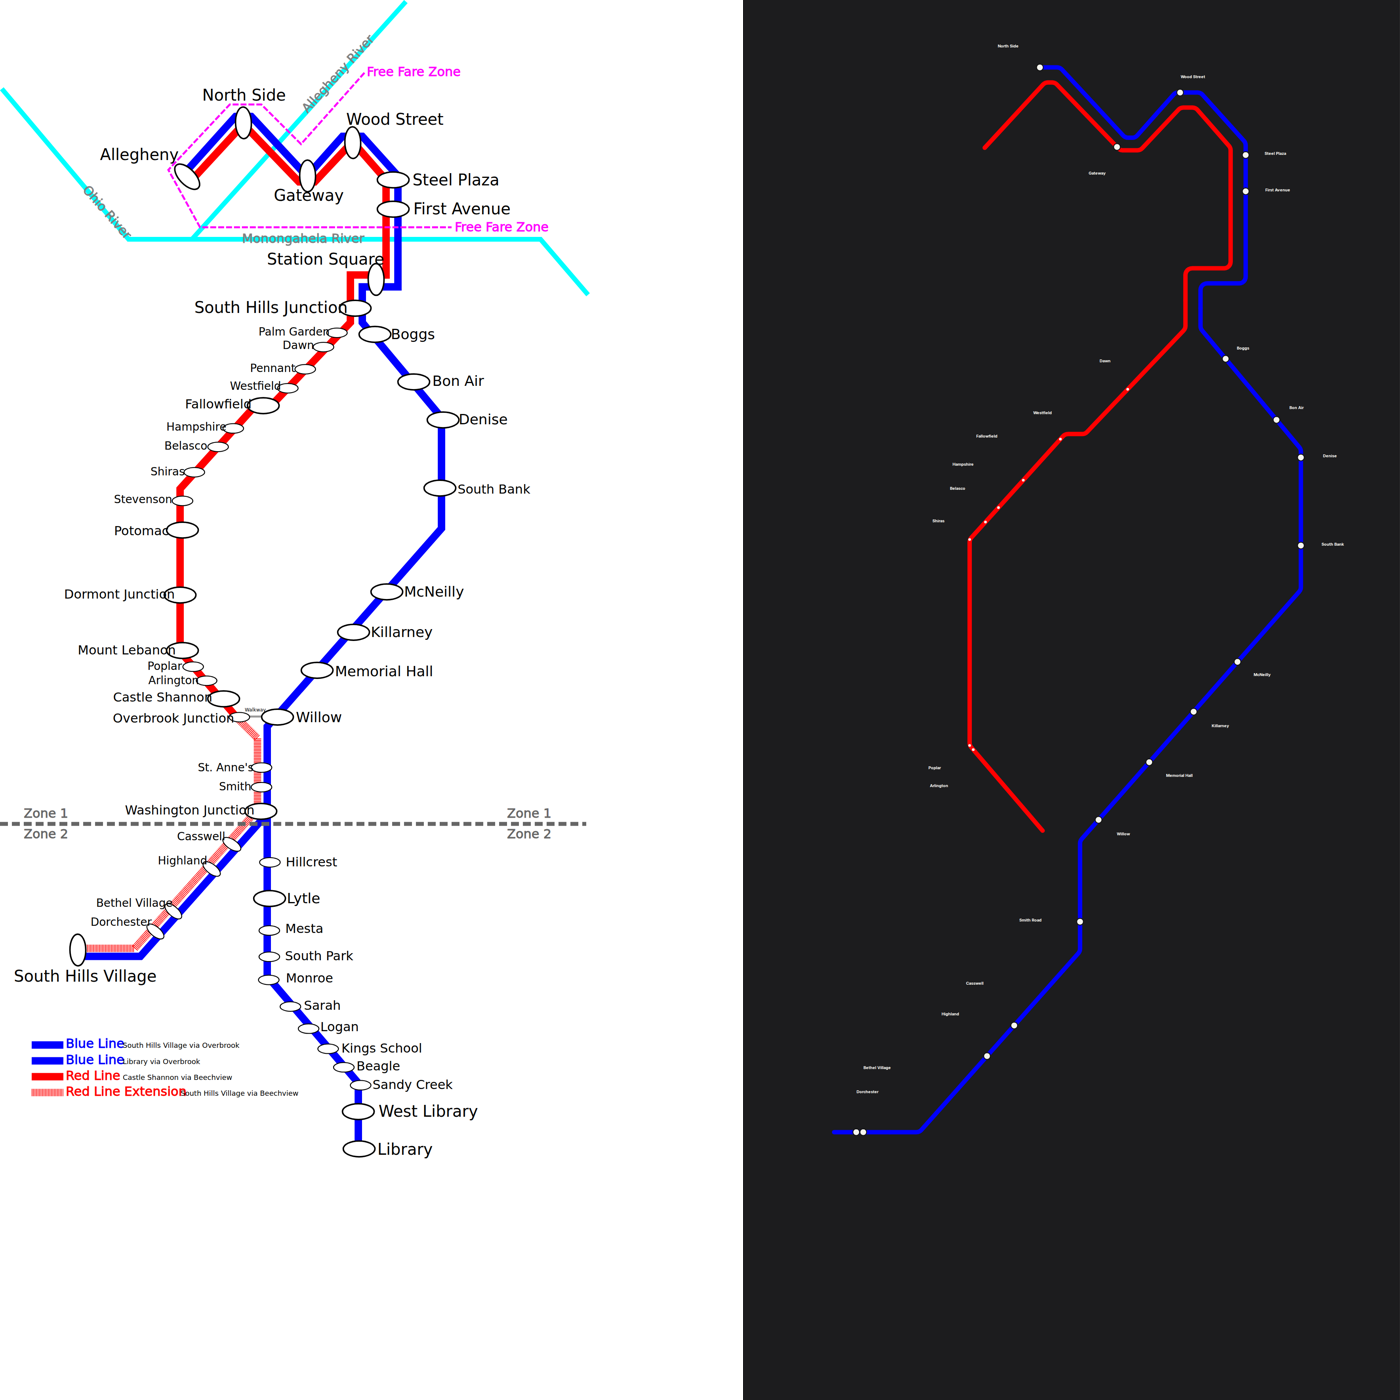
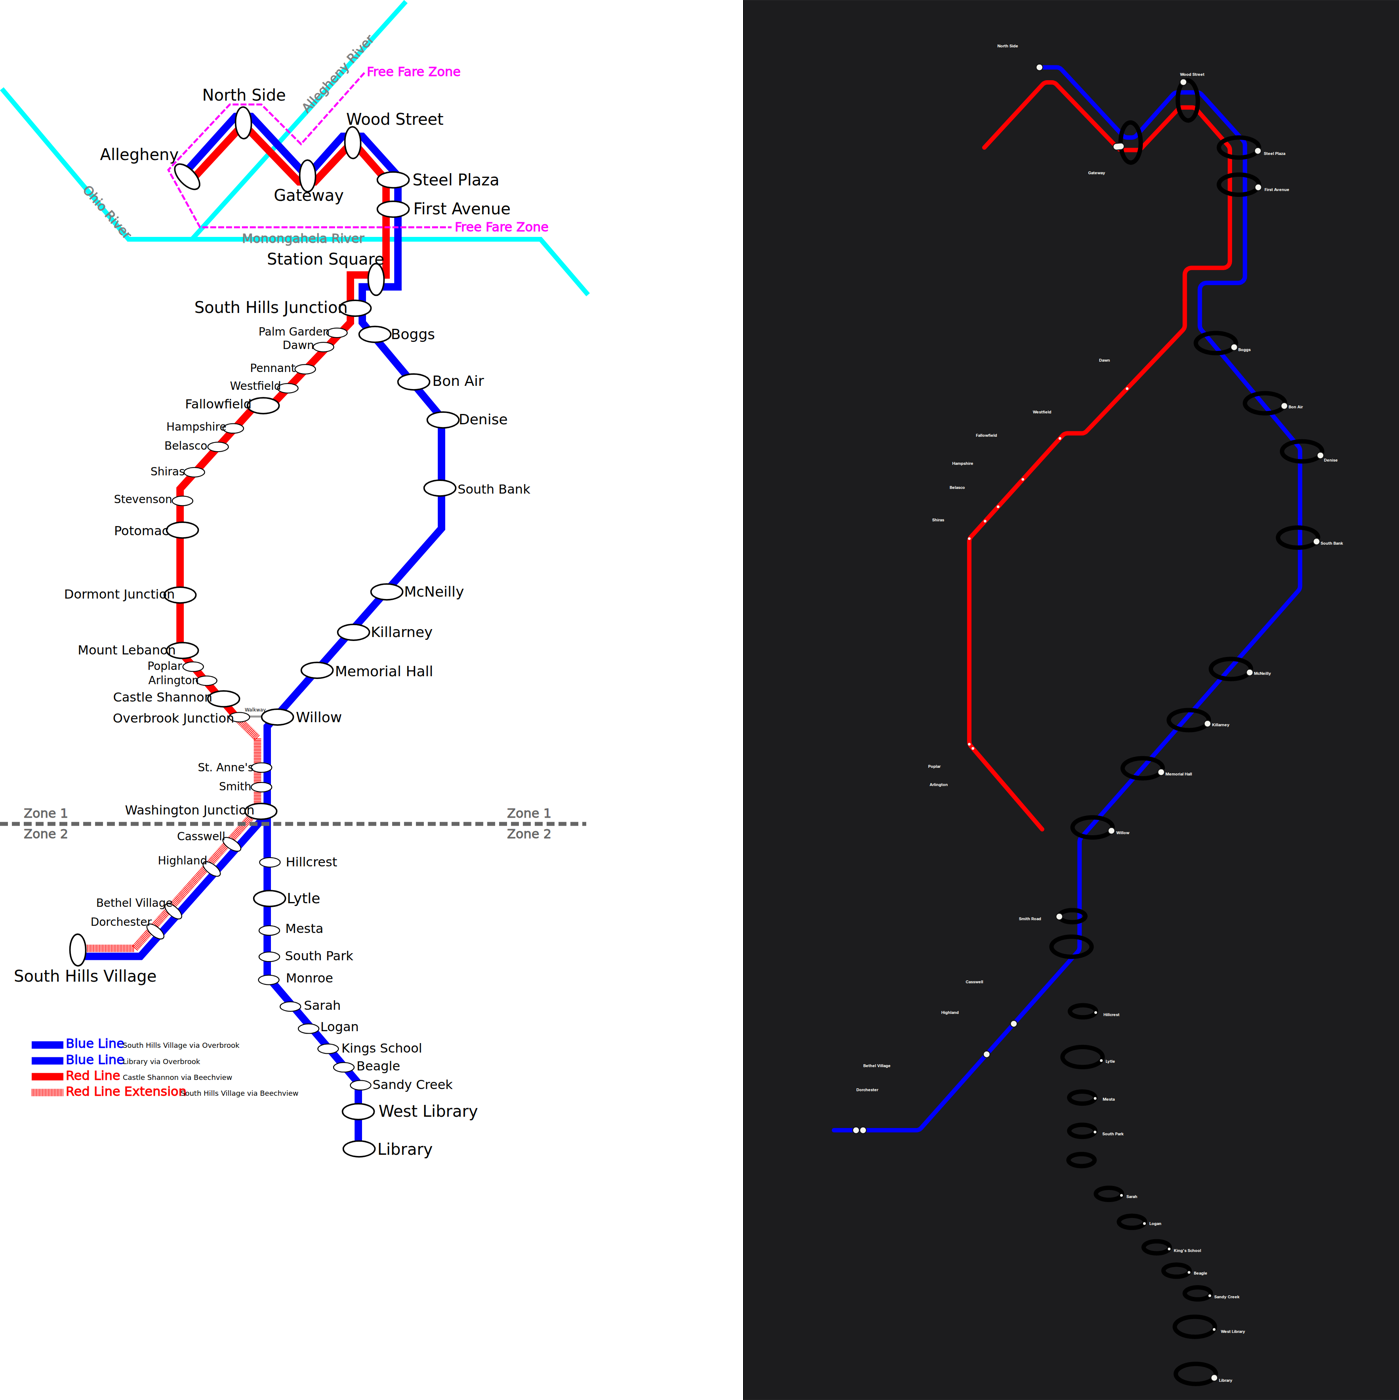
Fallback colour pass ignores outline-only colours; all official fixtures registered in the web app
Claude-Session: https://claude.ai/code/session_01MBsjaw49DwxCbAxCaJEcQU

diff --git a/packages/core/src/svgimport.ts b/packages/core/src/svgimport.ts
@@ -397,6 +397,10 @@ export function layoutFromExtract(ex0: SvgExtract, net0: MetroNetwork, params: D
   const colourStats = new Map<string, { len: number; maxW: number; n: number }>();
   for (const [c, list] of ex.strokes) { let len = 0, maxW = 0; for (const p of list) { len += pathLength(p.pts); maxW = Math.max(maxW, p.width); } colourStats.set(c, { len, maxW, n: list.length }); }
   const candidates = [...colourStats.entries()].filter(([c, s]) => s.len > 50 && c !== '#ffffff');
+  // Colours that are only ever short closed shapes (station outlines in black) are not route lines.
+  const longLen = new Map<string, number>();
+  for (const [c, list] of ex.strokes) { const minL = Math.max(ex.width, ex.height) * 0.03; longLen.set(c, list.reduce((a, p) => a + (pathLength(p.pts) > minL ? pathLength(p.pts) : 0), 0)); }
+  const routeLike = (c: string) => (longLen.get(c) ?? 0) > Math.max(ex.width, ex.height) * 0.2;
   const tol = opts.colorTolerance ?? 230;
   // Station label positions in SVG units, per station name.
   const labelKey = (name: string) => normalizeName(expandAbbrev(name));
@@ -511,8 +515,12 @@ export function layoutFromExtract(ex0: SvgExtract, net0: MetroNetwork, params: D
     const pts = net.stations.filter((st) => st.lines.includes(ln.id)).map(posOf).filter(Boolean) as Vec2[];
     let best: { c: string; score: number; d: number; hits: number } | undefined;
     const tried: string[] = [];
+    // Two passes: colours near the line's own first; then, if nothing near fits, any colour most of its stations sit
+    // on (PRT's Silver line runs on the strokes an older drawing paints pure blue).
+    for (const pass of [0, 1]) {
+    if (pass === 1 && best && (best.score > 0.15 || best.hits >= 3)) break;
     for (const [c] of candidates) {
-      const d = colorDist(ln.color, c); if (d > tol) continue;
+      const d = colorDist(ln.color, c); if (pass === 0 ? d > tol : d <= tol || !routeLike(c)) continue;
       let hits = 0; for (const p of pts) if (near(c, p, unitR)) hits++;
       // Hits weigh more the closer the colour is to the line's own: a parallel line of another colour running
       // past the same labels must not win just because its strokes are nearer.
@@ -520,7 +528,9 @@ export function layoutFromExtract(ex0: SvgExtract, net0: MetroNetwork, params: D
       // tags as light blue, but two lines that share an OSM colour are told apart by which strokes their stations sit on).
       const score = (hits / Math.max(1, pts.length)) * (0.4 + 0.6 * Math.max(0, 1 - d / tol));
       tried.push(`${c}:${hits}/${d.toFixed(0)}`);
+      if (pass === 1 && hits / Math.max(1, pts.length) < 0.5) continue;
       if (!best || score > best.score) best = { c, score, d, hits };
+    }
     }
     if (typeof process !== 'undefined' && process.env?.SVG_DEBUG === 'colours') log(`  ${ln.ref} candidates ${tried.join(' ')}`);
     // Enough of the line's stations sit on strokes of this colour: a share of them, or at least three (long lines

diff --git a/apps/web/src/worker.ts b/apps/web/src/worker.ts
@@ -9,6 +9,12 @@ import philadelphiaUrl from '@metrocad/core/fixtures/philadelphia.json?url';
 import philadelphiaOfficialUrl from '@metrocad/core/fixtures/philadelphia.official.json?url';
 import parisOfficialUrl from '@metrocad/core/fixtures/paris.official.json?url';
 import londonOfficialUrl from '@metrocad/core/fixtures/london.official.json?url';
+import moscowOfficialUrl from '@metrocad/core/fixtures/moscow.official.json?url';
+import pittsburghOfficialUrl from '@metrocad/core/fixtures/pittsburgh.official.json?url';
+import atlantaOfficialUrl from '@metrocad/core/fixtures/atlanta.official.json?url';
+import tokyoOfficialUrl from '@metrocad/core/fixtures/tokyo.official.json?url';
+import viennaOfficialUrl from '@metrocad/core/fixtures/vienna.official.json?url';
+import sanFranciscoOfficialUrl from '@metrocad/core/fixtures/san-francisco.official.json?url';
 import pittsburghUrl from '@metrocad/core/fixtures/pittsburgh.json?url';
 import tokyoUrl from '@metrocad/core/fixtures/tokyo.json?url';
 import moscowUrl from '@metrocad/core/fixtures/moscow.json?url';
@@ -26,6 +32,12 @@ const OFFICIAL: Record<string, { url: string; title: string }> = {
   philadelphia: { url: philadelphiaOfficialUrl, title: 'SEPTA Regional Rail & Rail Transit map (June 2026), geometry only' },
   paris: { url: parisOfficialUrl, title: 'Plan schématique du réseau de Paris (Wikimedia Commons, CC BY-SA), geometry only' },
   london: { url: londonOfficialUrl, title: 'London Underground, Overground, DLR and Elizabeth line map (Wikimedia Commons, CC BY-SA), geometry only' },
+  moscow: { url: moscowOfficialUrl, title: 'Moscow Metro map, sameboat schematic (Wikimedia Commons, CC BY-SA), geometry only' },
+  pittsburgh: { url: pittsburghOfficialUrl, title: 'Pittsburgh T map (Wikimedia Commons, CC BY-SA), geometry only' },
+  atlanta: { url: atlantaOfficialUrl, title: 'MARTA rail map (Wikimedia Commons, CC BY-SA), geometry only' },
+  tokyo: { url: tokyoOfficialUrl, title: 'Tokyo subway map (Wikimedia Commons, CC BY-SA), geometry only' },
+  vienna: { url: viennaOfficialUrl, title: 'U-Bahn Wien Netzplan (Wikimedia Commons, CC BY-SA), geometry only' },
+  'san-francisco': { url: sanFranciscoOfficialUrl, title: 'BART map (Wikimedia Commons, CC BY-SA), geometry only' },
 };
 const FIXTURES: Record<string, string> = { paris: parisUrl, london: londonUrl, philadelphia: philadelphiaUrl, pittsburgh: pittsburghUrl, tokyo: tokyoUrl, moscow: moscowUrl, vienna: viennaUrl, atlanta: atlantaUrl, 'san-francisco': sanFranciscoUrl };
 

diff --git a/docs/verification-pittsburgh.md b/docs/verification-pittsburgh.md
@@ -1,55 +1,52 @@
 # Pittsburgh: our layout vs the operator's map
 
-Source drawing: `pittsburgh.svg` · 900 mm wide · 26/51 stations placed on the official geometry · 26 labels placed, 24 moved away from where the drawing has them · 34 geometry problems.
+Source drawing: `pittsburgh.svg` · 900 mm wide · 37/51 stations placed on the official geometry · 37 labels placed, 15 moved away from where the drawing has them · 31 geometry problems.
 
 ![side by side](screenshots/verify-pittsburgh.png)
 
 | Line | Stations | On map | Off-line | Jumps | Our colour | Official colour | Missing from map |
 |---|---|---|---|---|---|---|---|
-| Blue PRT Blue Line | 24 | 18 | 1 | 0 | #77b6e4 | #0000ff | South Hills Village, Washington Junction, St. Anne's, South Hills Junction, Station Square, Allegheny |
-| Red PRT Red Line | 31 | 18 | 9 | 10 | #ec1b24 | #ff0000 | Overbrook Junction, Castle Shannon, Mt. Lebanon, Dormont Junction, Potomac, Stevenson, Palm Garden, South Hills Junction … (+5) |
-| Silver PRT Silver Line | 31 | 14 | 14 | 0 | #bcbdc0 | — | Library, West Library, Sandy Creek, Beagle, King's School, Logan, Sarah, Munroe … (+9) |
+| Blue PRT Blue Line | 24 | 18 | 13 | 0 | #77b6e4 | #0000ff | South Hills Village, Washington Junction, St. Anne's, South Hills Junction, Station Square, Allegheny |
+| Red PRT Red Line | 31 | 18 | 9 | 8 | #ec1b24 | #ff0000 | Overbrook Junction, Castle Shannon, Mt. Lebanon, Dormont Junction, Potomac, Stevenson, Palm Garden, South Hills Junction … (+5) |
+| Silver PRT Silver Line | 31 | 25 | 1 | 0 | #bcbdc0 | #000000 | Munroe, Washington Junction, St. Anne's, South Hills Junction, Station Square, Allegheny |
 
 ## Problems
 
-* Blue: "Gateway" sits 17 mm off the Blue line (snapped to the wrong stroke?)
-* Red: "First Avenue" sits 21 mm off the Red line (snapped to the wrong stroke?)
-* Red: "Steel Plaza" sits 21 mm off the Red line (snapped to the wrong stroke?)
-* Red: "Wood Street" sits 21 mm off the Red line (snapped to the wrong stroke?)
+* Blue: "Smith Road" sits 28 mm off the Blue line (snapped to the wrong stroke?)
+* Blue: "Willow" sits 25 mm off the Blue line (snapped to the wrong stroke?)
+* Blue: "Memorial Hall" sits 23 mm off the Blue line (snapped to the wrong stroke?)
+* Blue: "Killarney" sits 27 mm off the Blue line (snapped to the wrong stroke?)
+* Blue: "McNeilly" sits 24 mm off the Blue line (snapped to the wrong stroke?)
+* Blue: "South Bank" sits 23 mm off the Blue line (snapped to the wrong stroke?)
+* Blue: "Denise" sits 28 mm off the Blue line (snapped to the wrong stroke?)
+* Blue: "Bon Air" sits 21 mm off the Blue line (snapped to the wrong stroke?)
+* Blue: "Boggs" sits 19 mm off the Blue line (snapped to the wrong stroke?)
+* Blue: "First Avenue" sits 18 mm off the Blue line (snapped to the wrong stroke?)
+* Blue: "Steel Plaza" sits 18 mm off the Blue line (snapped to the wrong stroke?)
+* Blue: "Wood Street" sits 14 mm off the Blue line (snapped to the wrong stroke?)
+* Blue: "Gateway" sits 16 mm off the Blue line (snapped to the wrong stroke?)
+* Red: "First Avenue" sits 39 mm off the Red line (snapped to the wrong stroke?)
+* Red: "Steel Plaza" sits 38 mm off the Red line (snapped to the wrong stroke?)
+* Red: "Wood Street" sits 35 mm off the Red line (snapped to the wrong stroke?)
 * Red: "North Side" sits 23 mm off the Red line (snapped to the wrong stroke?)
-* Red: "Smith Road" sits 135 mm off the Red line (snapped to the wrong stroke?)
+* Red: "Smith Road" sits 122 mm off the Red line (snapped to the wrong stroke?)
 * Red: "Casswell" sits 269 mm off the Red line (snapped to the wrong stroke?)
 * Red: "Highland" sits 318 mm off the Red line (snapped to the wrong stroke?)
 * Red: "Bethel Village" sits 480 mm off the Red line (snapped to the wrong stroke?)
 * Red: "Dorchester" sits 485 mm off the Red line (snapped to the wrong stroke?)
 * Red: Poplar → Shiras is 282 mm apart (a station out of place, or a gap in the traced line)
-* Red: Dawn → First Avenue is 316 mm apart (a station out of place, or a gap in the traced line)
-* Red: First Avenue → Dawn is 316 mm apart (a station out of place, or a gap in the traced line)
+* Red: Dawn → First Avenue is 330 mm apart (a station out of place, or a gap in the traced line)
+* Red: First Avenue → Dawn is 330 mm apart (a station out of place, or a gap in the traced line)
 * Red: Shiras → Poplar is 282 mm apart (a station out of place, or a gap in the traced line)
-* Red: First Avenue → Dawn is 316 mm apart (a station out of place, or a gap in the traced line)
+* Red: First Avenue → Dawn is 330 mm apart (a station out of place, or a gap in the traced line)
 * Red: Shiras → Poplar is 282 mm apart (a station out of place, or a gap in the traced line)
-* Red: Arlington → Smith Road is 277 mm apart (a station out of place, or a gap in the traced line)
-* Red: Smith Road → Arlington is 277 mm apart (a station out of place, or a gap in the traced line)
 * Red: Poplar → Shiras is 282 mm apart (a station out of place, or a gap in the traced line)
-* Red: Dawn → First Avenue is 316 mm apart (a station out of place, or a gap in the traced line)
-* Silver: "Smith Road" sits Infinity mm off the Silver line (snapped to the wrong stroke?)
-* Silver: "Willow" sits Infinity mm off the Silver line (snapped to the wrong stroke?)
-* Silver: "Memorial Hall" sits Infinity mm off the Silver line (snapped to the wrong stroke?)
-* Silver: "Killarney" sits Infinity mm off the Silver line (snapped to the wrong stroke?)
-* Silver: "McNeilly" sits Infinity mm off the Silver line (snapped to the wrong stroke?)
-* Silver: "South Bank" sits Infinity mm off the Silver line (snapped to the wrong stroke?)
-* Silver: "Denise" sits Infinity mm off the Silver line (snapped to the wrong stroke?)
-* Silver: "Bon Air" sits Infinity mm off the Silver line (snapped to the wrong stroke?)
-* Silver: "Boggs" sits Infinity mm off the Silver line (snapped to the wrong stroke?)
-* Silver: "First Avenue" sits Infinity mm off the Silver line (snapped to the wrong stroke?)
-* Silver: "Steel Plaza" sits Infinity mm off the Silver line (snapped to the wrong stroke?)
-* Silver: "Wood Street" sits Infinity mm off the Silver line (snapped to the wrong stroke?)
-* Silver: "Gateway" sits Infinity mm off the Silver line (snapped to the wrong stroke?)
-* Silver: "North Side" sits Infinity mm off the Silver line (snapped to the wrong stroke?)
+* Red: Dawn → First Avenue is 330 mm apart (a station out of place, or a gap in the traced line)
+* Silver: "North Side" sits 142 mm off the Silver line (snapped to the wrong stroke?)
 
 ## Import log
 
 * line Blue: #0000ff (21% of 24 stations)
 * line Red: #ff0000 (17% of 31 stations)
-* line Silver: #00ffff (3% of 30 stations)
-* SVG import: 26/51 stations matched, 2 line colours
+* line Silver: #000000 (31% of 30 stations)
+* SVG import: 37/51 stations matched, 3 line colours
